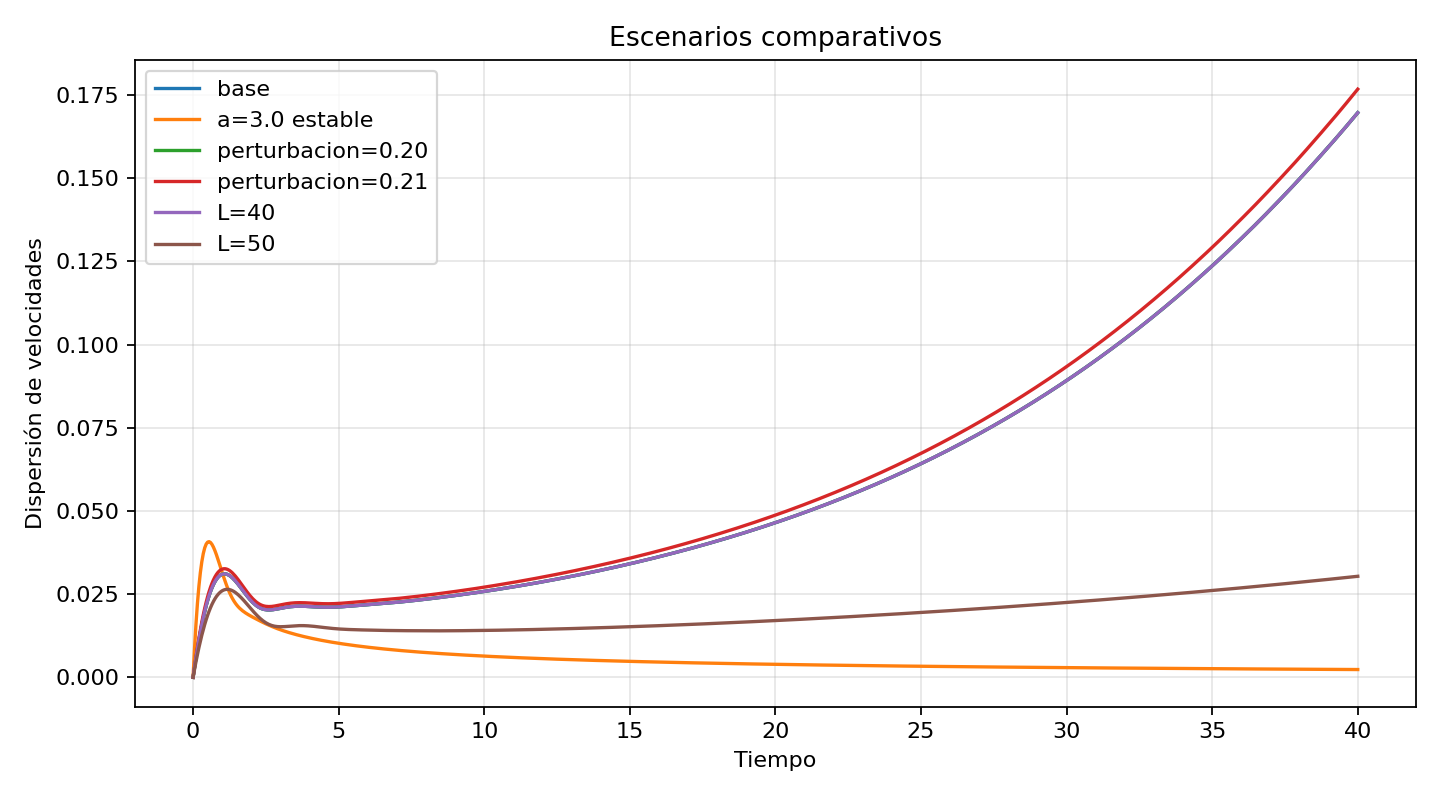
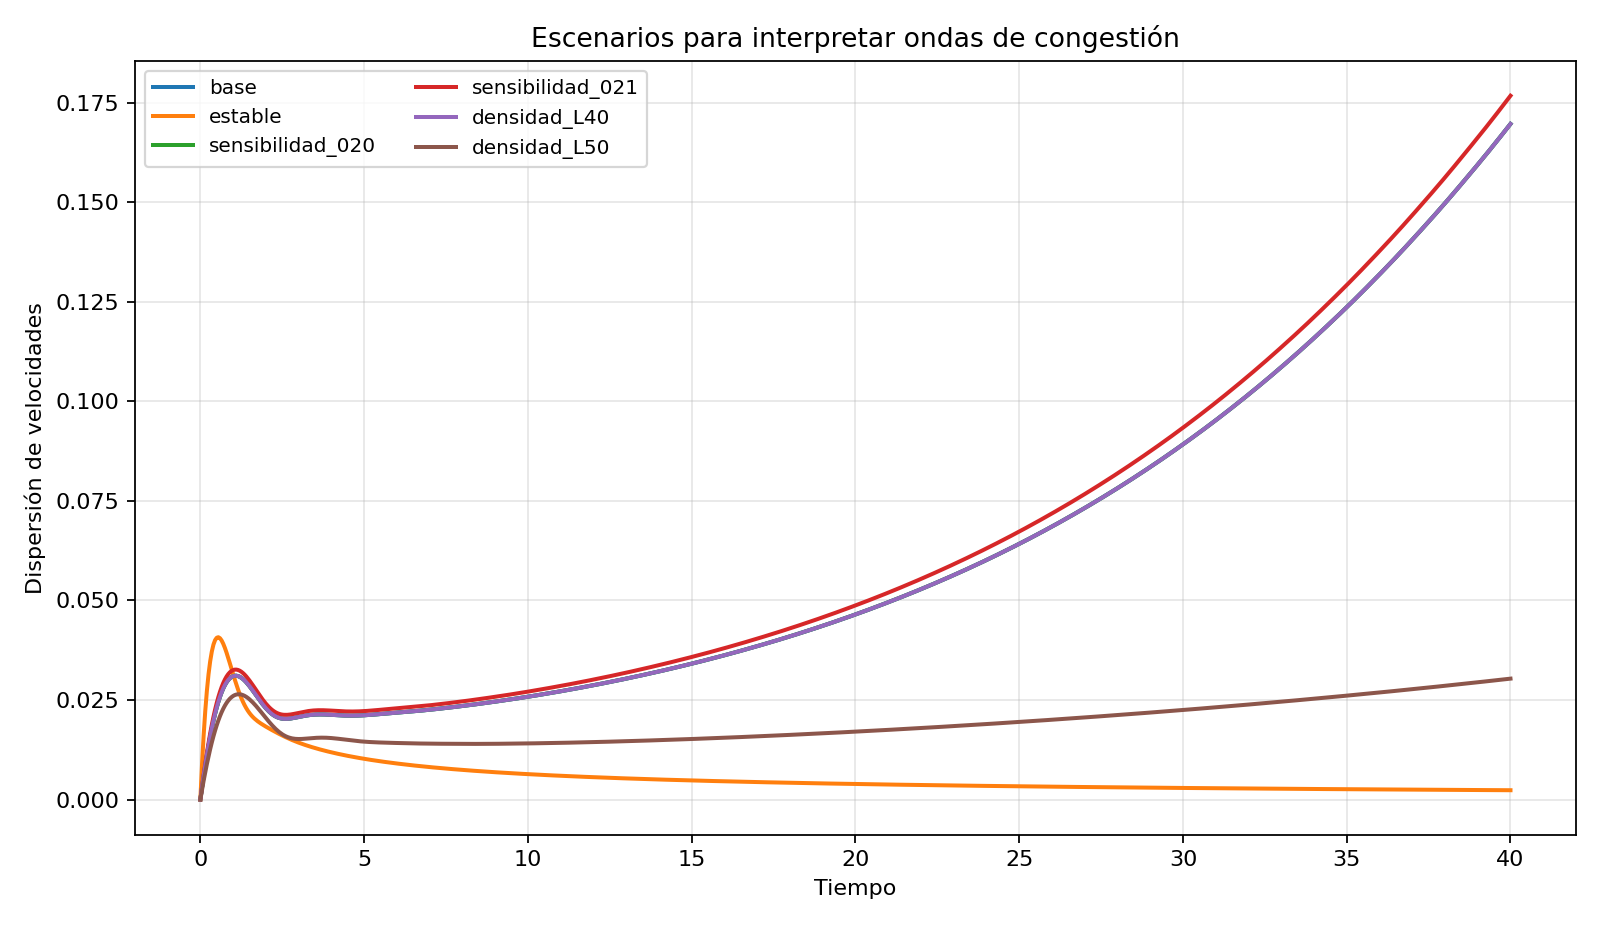
final features

diff --git a/app.py b/app.py
@@ -147,26 +147,40 @@ def _fig_eficiencia(tabla):
 
 
 def _fig_dispersion_escenarios(escenarios):
-    fig, ax = plt.subplots(figsize=(9, 5))
+    fig, ax = plt.subplots(figsize=(10, 5.8))
     etiquetas = {
-        "base": "base",
-        "estable": "a=3.0 estable",
-        "sensibilidad_020": "perturbacion=0.20",
-        "sensibilidad_021": "perturbacion=0.21",
-        "densidad_L40": "L=40",
-        "densidad_L50": "L=50",
+        "flujo_uniforme": "Flujo uniforme",
+        "perturbacion_leve": "Perturbación leve",
+        "perturbacion_fuerte": "Perturbación fuerte",
+        "varias_perturbaciones": "Varias perturbaciones",
+        "reaccion_lenta": "Reacción lenta",
+        "reaccion_alta": "Reacción alta",
+        "alta_densidad": "Alta densidad",
     }
     for nombre, resultado in escenarios.items():
         N_local = resultado["y"].shape[1] // 2
         v = resultado["y"][:, N_local:]
-        ax.plot(resultado["t"], np.std(v, axis=1), label=etiquetas.get(nombre, nombre))
+        ax.plot(resultado["t"], np.std(v, axis=1), label=etiquetas.get(nombre, nombre), linewidth=1.8)
     ax.set_xlabel("Tiempo")
     ax.set_ylabel("Dispersión de velocidades")
-    ax.set_title("Escenarios comparativos")
-    ax.legend()
+    ax.set_title("Escenarios para interpretar ondas de congestión")
+    ax.legend(ncol=2, fontsize=9)
     ax.grid(True, alpha=0.3)
     fig.tight_layout()
     return fig
+
+
+def _descripcion_escenario(nombre):
+    descripciones = {
+        "flujo_uniforme": "Referencia sin perturbación: todos los vehículos inician igualmente espaciados.",
+        "perturbacion_leve": "Pequeña irregularidad inicial; permite ver si el flujo la absorbe o la amplifica.",
+        "perturbacion_fuerte": "Irregularidad grande; muestra una onda de frenado más visible.",
+        "varias_perturbaciones": "Tres irregularidades iniciales; permite observar interacción entre ondas.",
+        "reaccion_lenta": "Conductores ajustan lento su velocidad; las oscilaciones pueden persistir más.",
+        "reaccion_alta": "Conductores ajustan rápido su velocidad; compara amortiguamiento frente al caso lento.",
+        "alta_densidad": "Misma cantidad de vehículos en una vía más corta; reduce la separación promedio.",
+    }
+    return descripciones.get(nombre, "")
 
 
 st.title("OVM Tráfico Bando")
@@ -260,6 +274,10 @@ with tabs[4]:
 with tabs[5]:
     with st.spinner("Ejecutando escenarios comparativos..."):
         escenarios = _ejecutar_escenarios(N, L, t0, tf, h, perturbacion)
+    st.write(
+        "Estos escenarios comparan cómo cambia la dispersión de velocidades cuando se modifica "
+        "la perturbación inicial, la reacción de los conductores o la densidad de la vía."
+    )
     _mostrar_figura(_fig_dispersion_escenarios(escenarios), "escenarios_comparativos.png")
     resumen = []
     for nombre, resultado in escenarios.items():
@@ -268,6 +286,7 @@ with tabs[5]:
         resumen.append(
             {
                 "escenario": nombre,
+                "interpretacion": _descripcion_escenario(nombre),
                 "dispersion_final": float(np.std(v[-1])),
                 "dispersion_maxima": float(np.max(np.std(v, axis=1))),
                 "tiempo_segundos": resultado["tiempo"],

diff --git a/simulacion.py b/simulacion.py
@@ -54,14 +54,24 @@ def resolver_rk45(N, L, a, t0, tf, t_eval, perturbacion):
 
 
 def ejecutar_escenarios(N, L, t0, tf, h, perturbacion):
-    # Ejecuta los escenarios obligatorios con RK4 para graficas comparativas
+    # Ejecuta casos interpretables para comparar ondas de congestion
+    amplitud_base = 0.2 if np.isscalar(perturbacion) else 0.2
+    amplitud_fuerte = min(0.45 * L / N, max(0.35, abs(amplitud_base) * 2.0))
+    varias_perturbaciones = [
+        (N // 4, amplitud_base),
+        (N // 2, -0.5 * amplitud_base),
+        ((3 * N) // 4, amplitud_base),
+    ]
+    L_alta_densidad = max(20.0, 0.75 * L)
+    a_base = 1.0
     escenarios = {
-        "base": {"N": N, "L": L, "a": 1.0, "perturbacion": perturbacion},
-        "estable": {"N": N, "L": L, "a": 3.0, "perturbacion": perturbacion},
-        "sensibilidad_020": {"N": N, "L": L, "a": 1.0, "perturbacion": 0.20},
-        "sensibilidad_021": {"N": N, "L": L, "a": 1.0, "perturbacion": 0.21},
-        "densidad_L40": {"N": N, "L": 40.0, "a": 1.0, "perturbacion": perturbacion},
-        "densidad_L50": {"N": N, "L": 50.0, "a": 1.0, "perturbacion": perturbacion},
+        "flujo_uniforme": {"N": N, "L": L, "a": a_base, "perturbacion": 0.0},
+        "perturbacion_leve": {"N": N, "L": L, "a": a_base, "perturbacion": 0.05},
+        "perturbacion_fuerte": {"N": N, "L": L, "a": a_base, "perturbacion": amplitud_fuerte},
+        "varias_perturbaciones": {"N": N, "L": L, "a": a_base, "perturbacion": varias_perturbaciones},
+        "reaccion_lenta": {"N": N, "L": L, "a": 0.4, "perturbacion": amplitud_base},
+        "reaccion_alta": {"N": N, "L": L, "a": 3.0, "perturbacion": amplitud_base},
+        "alta_densidad": {"N": N, "L": L_alta_densidad, "a": a_base, "perturbacion": amplitud_base},
     }
     resultados = {}
     for nombre, params in escenarios.items():

diff --git a/README.md b/README.md
@@ -99,7 +99,3 @@ Para exponer la animacion:
 - Tablas: `resultados/tablas/`
 - Figuras: `resultados/figuras/`
 - Animaciones: `resultados/animaciones/`
-
-## Uso de IA
-
-La IA se uso como apoyo conceptual y de organizacion para estructurar el codigo, documentar el modelo, preparar verificaciones y automatizar la generacion de resultados. Las ecuaciones, metodos y conclusiones deben revisarse y defenderse dentro del contexto del curso.